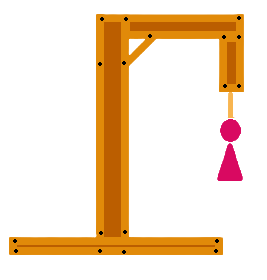
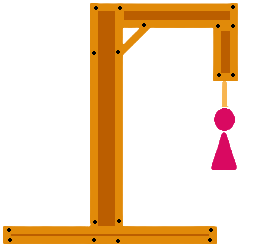
atualizações da parte visual

Changed region(s): [[0.0, 0.0, 0.9231, 0.9959], [0.8, 0.3984, 0.9231, 0.7114]]

diff --git a/index.html b/index.html
@@ -36,7 +36,7 @@
                     <div class="letras">e</div>
                 </div>
             </div>
-            <table>
+            <table id="teclado">
                 <tr>
                     <td><button class="btn botoes" onclick="insert('Q')">Q</button></td>
                     <td><button class="btn botoes" onclick="insert('W')">W</button></td>
@@ -70,13 +70,17 @@
                     <td><button class="btn botoes" onclick="insert('N')">N</button></td>
                     <td><button class="btn botoes" onclick="insert('M')">M</button></td>
                     <td colspan="3"><button class="btn botoes botaoMaior" id="botaoReiniciar"><img src="./assets/imagens/joystick.svg"></button></td>
-                    
                 </tr>
-               
             </table>
+            <div id="dica">
+                Dica
+            </div>
         </div>
+        
     </main>
-
+    <footer>
+        
+    </footer>
     <script src="./assets/JavaScript/script.js"></script>
     <script src="https://code.jquery.com/jquery-3.3.1.slim.min.js" integrity="sha384-q8i/X+965DzO0rT7abK41JStQIAqVgRVzpbzo5smXKp4YfRvH+8abtTE1Pi6jizo" crossorigin="anonymous"></script>
     <script src="https://cdnjs.cloudflare.com/ajax/libs/popper.js/1.14.3/umd/popper.min.js" integrity="sha384-ZMP7rVo3mIykV+2+9J3UJ46jBk0WLaUAdn689aCwoqbBJiSnjAK/l8WvCWPIPm49" crossorigin="anonymous"></script>

diff --git a/assets/CSS/style.css b/assets/CSS/style.css
@@ -25,7 +25,7 @@ main{
 
 #imagemForca{
     padding: 10px;
-    margin-left: 85px;
+   
 }
 
 #painel{
@@ -69,8 +69,7 @@ button{
     width: 40px;
     height: 40px;
     margin: 3px;
-   
-    
+    cursor: pointer;
 }
 .botoes{
     background: rgb(252, 1, 210);
@@ -80,8 +79,20 @@ button{
 
 .botoes:hover{
     background: rgb(1, 139, 252);
+    transform: scale(1.1);
 }
 
 .botaoMaior{
     width: 131px;
+}
+
+#dica{
+    margin: 40px;
+    text-align: center;
+    color: white;
+    font-size: 1.5em;
+    text-transform: uppercase;
+    font-weight: bold;
+    letter-spacing: 2px;
+    border-bottom: 1px solid grey;
 }
